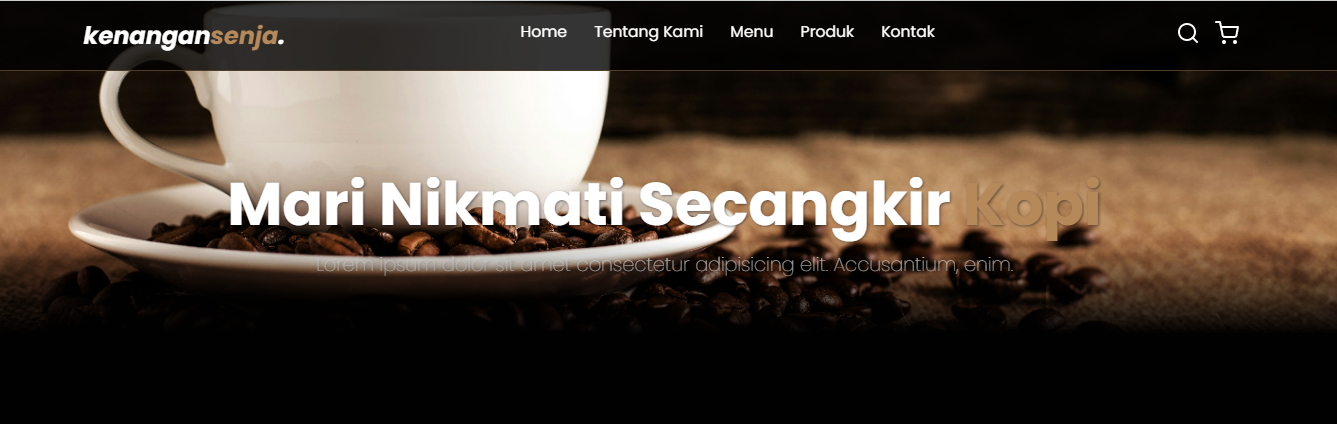
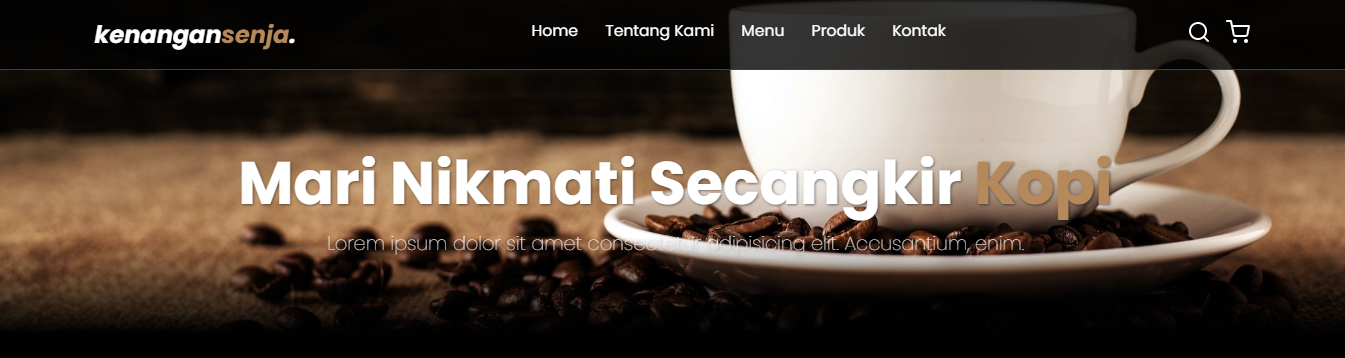
Menetapkan efek css mask

diff --git a/css/style.css b/css/style.css
@@ -186,28 +186,26 @@ body {
 }
 
 /* .hero::after {
-  content: "";
+  content: '';
   display: block;
   position: absolute;
   width: 100%;
   height: 30%;
   bottom: 0;
   background: linear-gradient(
-    0deg,
-    rgba(1, 1, 3, 1) 8%,
-    rgba(255, 255, 255, 0) 50%
-  );
+    0deg, rgba(1, 1, 3, 1)
+    8%, rgba(255, 255, 255, 0) 50%);
 } */
 
-/* .hero .mask-container {
+.hero .mask-container {
   position: absolute;
-  background: salmon;
+  /* background: salmon; */
   inset: 0;
   -webkit-mask-image: url("../img/header-bg.svg");
   -webkit-mask-repeat: no-repeat;
-  -webkit-mask-size: cover;
+  /* -webkit-mask-size: cover; */
   -webkit-mask-position: center;
-} */
+}
 
 .hero .content {
   padding: 1.4rem 7%;
@@ -215,7 +213,7 @@ body {
   width: 100%;
   text-align: center;
   position: fixed;
-  top: 150px;
+  top: 130px;
 }
 
 .hero .content h1 {
@@ -281,13 +279,13 @@ body {
   flex: 1 1 45rem;
 }
 
-/* .about .row .about-img img {
+.about .row .about-img img {
   width: 100%;
   -webkit-mask-image: url("../img/menu/splash.svg");
   -webkit-mask-size: 50%;
   -webkit-mask-repeat: no-repeat;
   -webkit-mask-position: center;
-} */
+}
 
 .about .row .content {
   flex: 1 1 35rem;

diff --git a/index.html b/index.html
@@ -82,7 +82,7 @@
 
     <!-- Hero Section start -->
     <section class="hero" id="home">
-      <!-- <div class="mask-container"> -->
+      <!--div class="mask-container" -->
       <main class="content">
         <h1>Mari Nikmati Secangkir <span>Kopi</span></h1>
         <p>
@@ -90,7 +90,7 @@
           enim.
         </p>
       </main>
-      <!-- </div> -->
+      <!--</div>-->
     </section>
     <!-- Hero Section end -->
 
